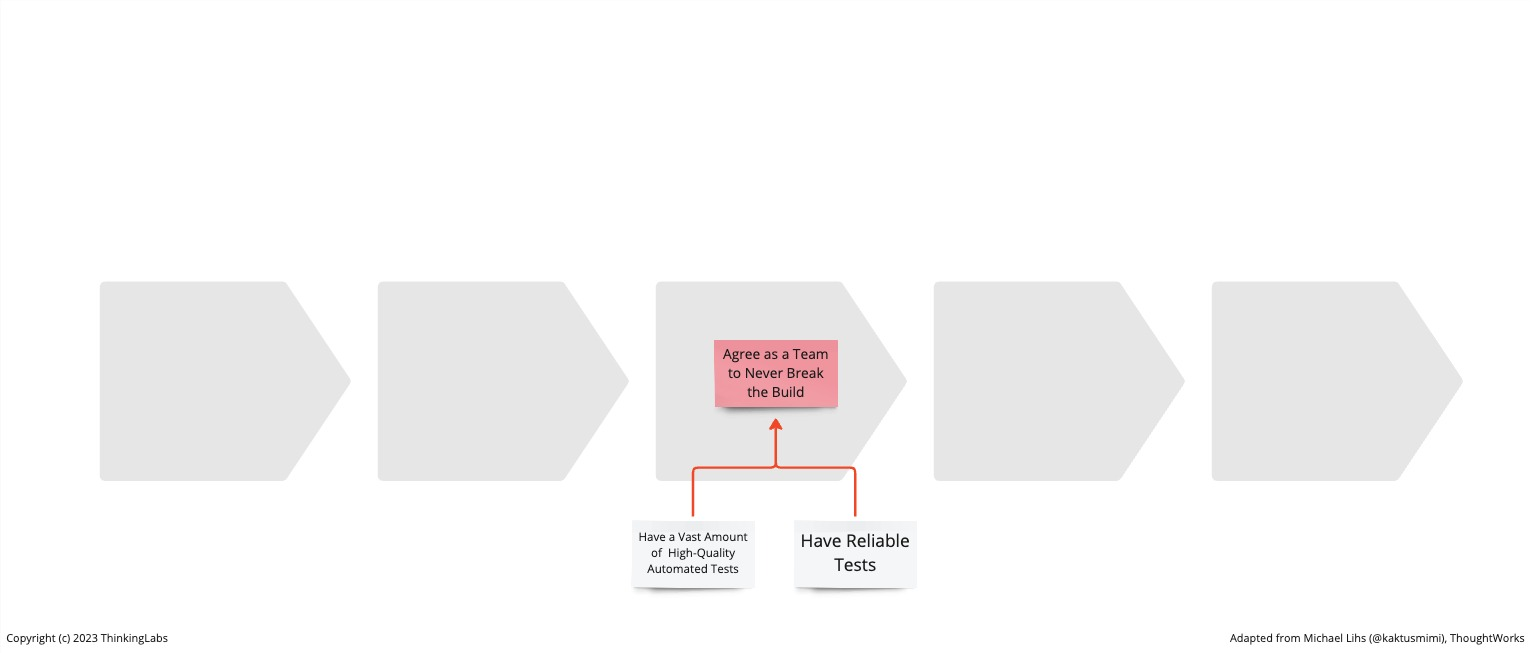
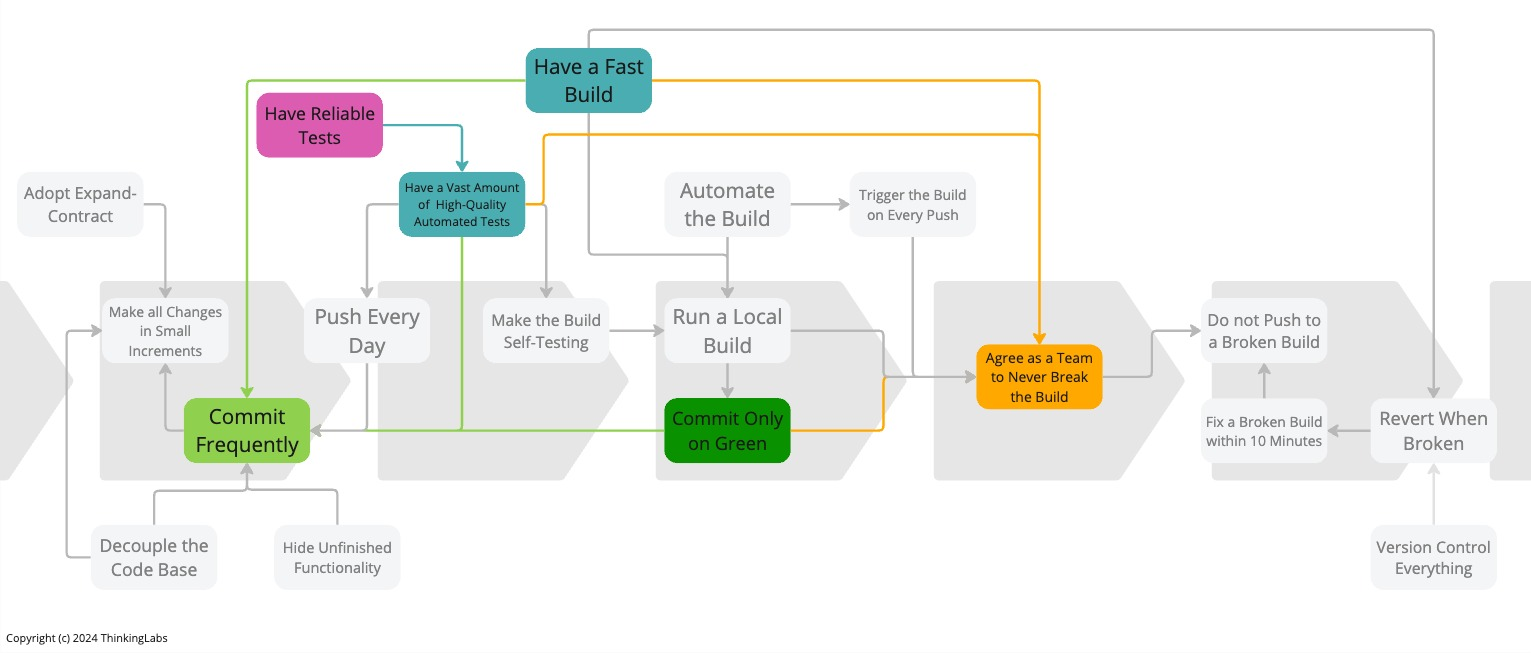
Review have reliable tests

diff --git a/_drafts/the-practices-that-make-continuous-integration-have-reliable-tests.md b/_drafts/the-practices-that-make-continuous-integration-have-reliable-tests.md
@@ -7,7 +7,7 @@ tags: [ Continuous Integration, Extreme Programming ]
 image: /images/the-practices-that-make-continuous-integration/the-practices-that-make-continuous-integration-have-reliable-tests.jpg
 ---
 
-When tests fail on occasion because they are flaky, we can now not rely on the tests to identify a good release candidate. At that point, we lose the codebase health monitoring and the benefits of Continuous Integration fall flat.
+When tests occasionally fail because they are flaky, we can not rely on the tests any more to identify a good release candidate. At that point, we lose the codebase health monitoring. The benefits of Continuous Integration fall flat. On-demand production releases are jeopardised.
 
 ---
 
@@ -15,7 +15,7 @@ When tests fail on occasion because they are flaky, we can now not rely on the t
 
 The objective of Continuous Integration, and by extension Continuous Delivery, is to eliminate bad quality release candidates as early as possible. Only changes that successfully moved through all stages of the deployment pipeline, and that have been thoroughly tested, get into production.
 
-Decidedly, to discard release candidates found not fit for production, we have to have a reliable, deterministic, consistent, and repeatable [Build](#build).
+Decidedly, to discard unfit release candidates for production, we must have a reliable, deterministic, consistent, and repeatable [Build](#build). This is paramount!
 
 > **reliable**: consistently good in quality or performance; able to be trusted
 >
@@ -33,38 +33,46 @@ When tests are not deterministic, we will obtain wildly varying results when con
 >
 > -- Britannica
 
-When tests are not consistent, they will not behave the same way when executed many more times.
+When tests are inconsistent, they will not behave the same way when executed many more times. Again, we cannot trust them.
 
 > **repeatable**: something can be done again.
 >
 > -- Cambridge Dictionary
 
-When executing tests repeatedly, we want them to be deterministic and consistent. The result should always be the same. When running tests 1000 times without any code changes, they should be green 1000 times. Not once red, and 999 times green. In that case, they are not reliable. Again, we cannot trust the tests.
+When executing tests repeatedly, we want them to be deterministic and consistent. The result should always be the same. When running tests 1000 times without any code changes, they should be green 1000 times. Not once red, and 999 times green. If they fail once in 10.000 runs without code changes, they are unreliable. One more last time, we cannot trust the tests!
 
-As soon as we cannot trust the tests, we will not mind any failing tests anymore. After all, re-executing the tests might pass them to green. Moreover, once we have one flaky test, we are at the start of much more flakiness. We will soon have two, three, five and more unreliable tests. It now becomes damned hard to satisfy [*Agree as a Team to Never Break the Build*]({% post_url 2022-09-17-the-practices-that-make-continuous-integration-team-working %}#practice-2-agree-as-a-team-to-never-break-the-build). Because the build now became non-deterministic, we will, time and time again, never know upfront whether the build will be green.
+Even if we [*Have a Vast Amount of High-Quality Automated Tests*]({% post_url 2022-09-28-the-practices-that-make-continuous-integration-building%}#practice-13-have-a-vast-amount-of-high-quality-automated-tests), as soon as we cannot trust the tests, they have little value. Our vast amount of automated tests becomes useless. Right now, we will not mind any failing tests. After all, re-executing the tests might pass them to green. On that occasion, we can still perform an on-demand production release anyway. Nothing is blocking us. We only live once, don't we?
 
-But, what is more, because we cannot rely on the automated tests, we lose confidence in the release process. If tests are green, are they truly passing? When they are red, are they indeed failing? Hence, we find ourselves adding another layer of expensive, time-consuming manual regression testing as an additional quality gate to gain assurance that what we are releasing is genuinely good.
+This conveys that unreliable tests disable *Have a Vast Amount of High-Quality Automated Tests*. Thus, it removes our ability to satisfy [*Agree as a Team to Never Break the Build*]({% post_url 2022-09-17-the-practices-that-make-continuous-integration-team-working %}#practice-2-agree-as-a-team-to-never-break-the-build), the most crucial practice to adopt to implement Continuous Integration successfully.
 
-Be aware, this is not to say that manual testing is a bad thing. We do need Exploratory Testing, preferably in production, on top of automated tests to find all of the unknowns. Automated tests can only check the knowns. But, manual regression testing as a process gate is a bad idea. [Research](https://www.goodreads.com/book/show/35747076-accelerate) shows that process gates drive down quality and introduce delays.
+But there is more. Once we have one flaky test, we are at the start of much more flakiness. We will soon have two, three, five and more unreliable tests. It now becomes damn hard to satisfy *Agree as a Team to Never Break the Build*. Because the build now became non-deterministic, we will, time and time again, never know upfront whether the build will be green.
+
+Because we cannot trust the automated tests, we lose confidence in the release process. If tests are green, are they truly passing? When they are red, are they indeed failing? In theory, our build is broken. When the build is broken we do not have Continuous Integration. 
+
+**Without Continuous Integration, our software is broken until someone else proves it works.**
+
+Hence, we find ourselves adding another layer of expensive, time-consuming manual regression testing as an additional quality gate to gain assurance that our release candidate is genuinely good.
+
+Be aware, this is not to say that manual testing is a bad thing. We do need Exploratory Testing, preferably in production, on top of automated tests to find all the unknowns. The automated tests can only check the knowns. Despite that, manual regression testing as a process gate is a bad idea. [Research](https://www.goodreads.com/book/show/35747076-accelerate) shows that process gates drive down quality and introduce delays.
 
 Ultimately, we find ourselves with a quality gate hoping to increase our confidence, but with a significant chance to obtain lower quality. Additionally, time to market is delayed and we incur an opportunity cost.
 
-We might as well delete the unreliable automated tests. The outcome will be the same. In both cases, we still need manual regression tests to instil a quality illusion. However, do not delete 
+We might as well delete the unreliable automated tests. The outcome will be the same. In both cases, we still need manual regression tests to instil a quality illusion.
 
-Even though this sounds attractive, do not delete unreliable tests. They do not provide any confidence, but they do give information and somehow valuable feedback. But, this requires a more in-depth analysis. Again, we pay a lead time tax.
+Even though this sounds attractive, do not delete unreliable tests. After all, they do not provide any confidence. But they do give information and somehow valuable feedback. Yet, this requires a more in-depth analysis. It will take time to figure out what is happening. Again, we pay a lead time tax.
 
-But, once we have flaky tests, how do we get out of this? How do we solve this? How do we get to a better, more manageable situation?
+But, once we have flaky tests, how do we get out of this? How do we solve this? How do we get to a better, more manageable situation empowering us to perform on-demand production releases at any time?
 
 ![Quarantined Tests](/images/the-practices-that-make-continuous-integration/the-practices-that-make-continuous-integration-quarantined-tests.jpg)
 
 To build our self-assurance, we should place the unreliable tests in quarantine. We split the automated tests into two sets of tests:
 
-- A set of stable tests. They are executed all the time. If any of these fail, they dispose of the release candidate.
+- A set of stable tests. They are executed all the time. If any of these fail, they drop the release candidate.
 - A set of unstable, quarantined tests. These are only executed overnight. If they fail, it never blocks a release. But it still provides us with precious information.
 
-This is only a solution for a symptom. We can presently not count on our automated tests to make release decisions. This is again possible. Now, we need to tackle the root cause. We need to bring the number of flaky tests back to zero by fixing them and making them reliable again. This is hard work.
+Note that this is only a solution to a symptom, not being able to count anymore on our automated tests to make a release decision. This is again possible. Now, we need to tackle the root cause. We need to bring the number of flaky tests back to zero by gradually fixing them. Turning them again into reliable tests. This is hard work!
 
-Once again, as with many of the practices that make Continuous Integration, if we want to keep our organisation financially healthy, our tests must be reliable, deterministic, consistent, and repeatable. If they are not, we must put unreliable tests into quarantine and gradually fix them.
+As with many practices that make Continuous Integration, if we want to keep our organisation financially healthy, our tests must be reliable, deterministic, consistent, and repeatable. If they are not, we must quarantine unreliable tests and progressively fix them.
 
 ## Acknowledgments
 

diff --git a/_posts/2022-09-28-the-practices-that-make-continuous-integration-building.md b/_posts/2022-09-28-the-practices-that-make-continuous-integration-building.md
@@ -88,7 +88,7 @@ When implementing automated tests, we should consider 3 types of tests:
 
 Going the extra mile towards Continuous Delivery, we would also have *Smoke Tests*. These are a restricted set, usually one to five, of end-to-end tests, i.e. including third-party services, executing our most important transactions to check everything works as expected right after deploying a new release. They take less than five minutes.
 
-Note how each of these different kinds of tests have different levels of granularity. *Unit Tests* have a low granularity. They execute a limited amount of code. As a result, they are faster. Thus, we can have many of them. On the other hand, *Acceptance Tests* have a high granularity. They execute more code and more of the application. In doing so, they are slower. Therefore, we should have fewer of them.
+Note how each of these different kinds of tests have different levels of granularity. *Unit Tests* have a low granularity. They execute a limited amount of code. As a result, they are faster. Thus, we can have many of them. Also, because they exercise a limited amount of code, we can more easily reason about them. They have a reduced cognitive load. On the other hand, *Acceptance Tests* have a high granularity. They execute more code and more of the application. In doing so, they are slower. Therefore, we should have fewer of them.
 
 The above is mostly influenced by the [Testing Pyramid](https://martinfowler.com/bliki/TestPyramid.html). [Not everyone is happy with that metaphor](https://cucumber.io/blog/bdd/eviscerating-the-test-automation-pyramid), especially in the Testing Community. But, in my humble opinion, the Testing Pyramid has the benefit of giving us an indication in which order tests should be executed. At the bottom, we have the fast *Unit Tests*. We execute these first in an attempt to receive fast feedback. The feedback is nevertheless not perfect. Numerous issues are still missed. As we go up the pyramid, tests are taking longer and executing more code and more of the application but giving us more precise feedback. To improve the feedback of our fast *Unit Tests*, each time a longer-running *Acceptance Test* fails, we try to reproduce the problem with a new *Unit Test*. This ensures next time the problem is covered by a fast *Unit Test* that is executed first. As a consequence, we receive earlier feedback. But also, the feedback from these *Unit Tests* becomes more and more precise and more valuable. Lastly, at the top of the pyramid, we have the *Exploratory Tests*. Often, they are manual but can be assisted by automation. They typically take longer to execute. Despite that, we surely do not want to eliminate them because they generate a lot of feedback value. Automated tests generally only check what we know about the system. Though, we can use automated tests to falsify hypotheses like in the case of [Property Based Testing](https://increment.com/testing/in-praise-of-property-based-testing/). That said, *Exploratory Testing* searches for what we do not know about the system. These newly discovered unknowns, which now became knowns, can now feed into new automated tests. Hence, we are improving the quality of our tests.
 
